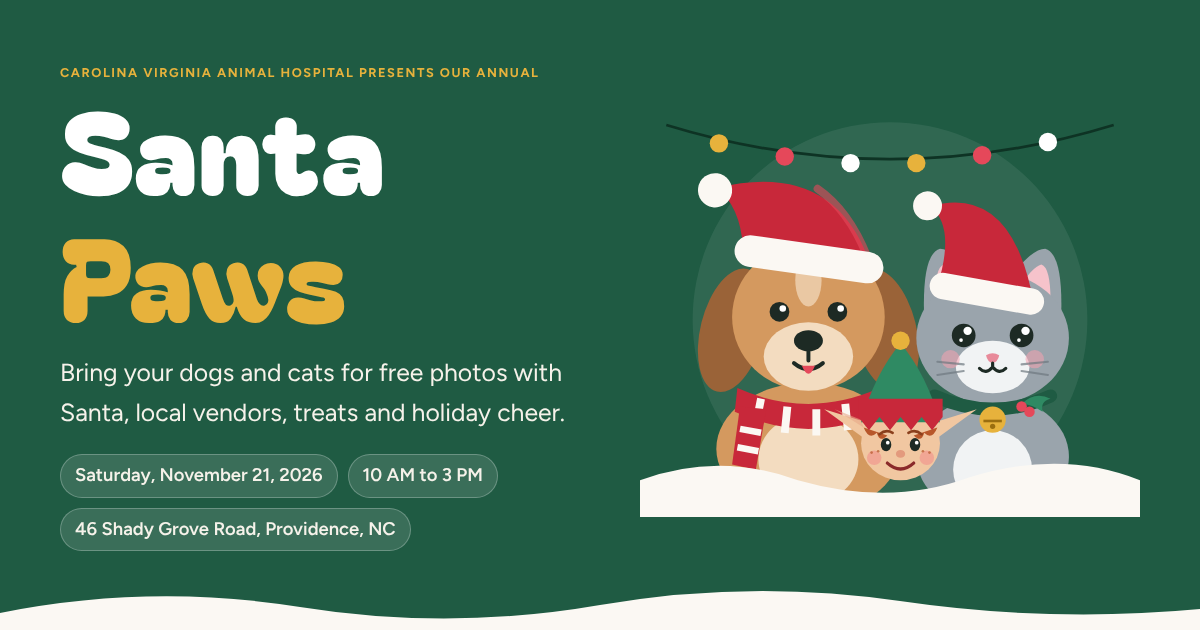
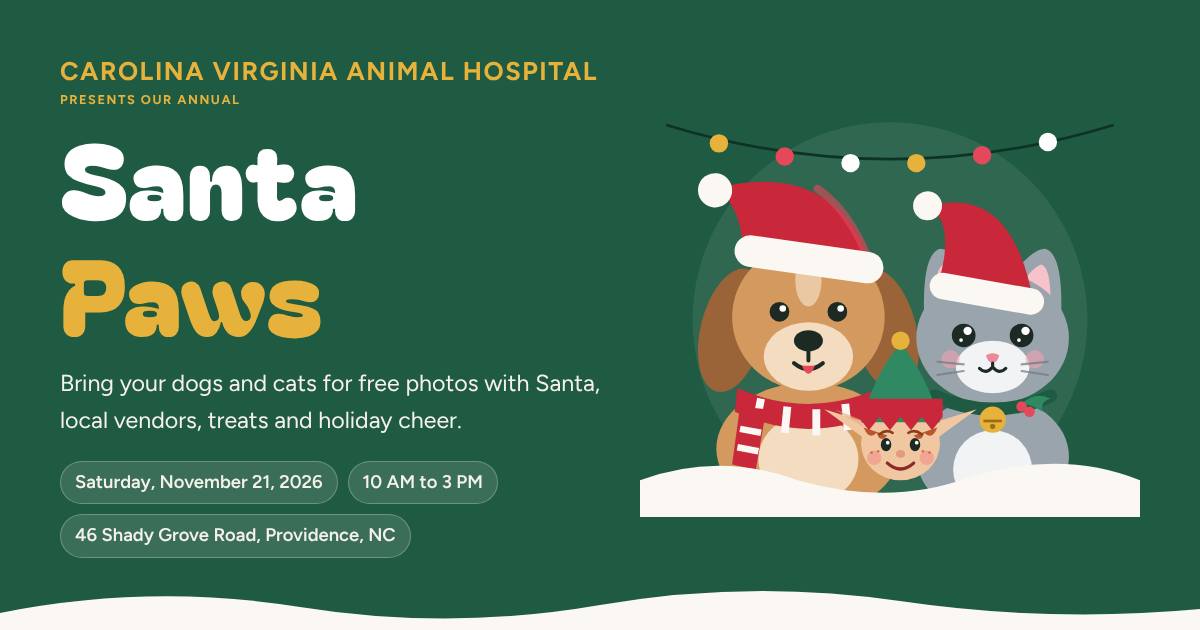
Make the hospital name larger in the home page header and preview card
Claude-Session: https://claude.ai/code/session_01JFpBQ97b8vmH3LwQqBFzYw

Changed region(s): [[0.0308, 0.573, 0.4933, 0.9048], [0.0308, 0.0905, 0.4933, 0.5429]]

diff --git a/index.html b/index.html
@@ -79,6 +79,8 @@ header.nav { position: sticky; top: env(safe-area-inset-top, 0px); z-index: 10; 
 .hero .wrap { position: relative; display: grid; grid-template-columns: 1.2fr .8fr; gap: 32px; align-items: center; padding-block: 56px 72px; }
 .hero h1 { font-size: clamp(3.2rem, 10vw, 6.4rem); color: #fff; letter-spacing: .01em; }
 .hero h1 span { color: var(--gold); }
+.hero-host { color: var(--gold); margin-bottom: 6px; }
+.hero-host strong { display: block; font-size: clamp(1.15rem, 2.6vw, 1.6rem); letter-spacing: .06em; line-height: 1.25; margin-bottom: 2px; }
 .hero .lede { font-size: 1.2rem; max-width: 34ch; margin-top: 16px; }
 .facts { display: flex; flex-wrap: wrap; gap: 10px; margin-top: 22px; }
 .fact { background: rgba(255,255,255,.12); border: 1px solid rgba(255,255,255,.25); border-radius: 999px; padding: 6px 14px; font-weight: 600; font-size: .95rem; }
@@ -292,7 +294,7 @@ footer p { opacity: .85; font-size: .95rem; }
     <canvas id="snow" aria-hidden="true"></canvas>
     <div class="wrap">
       <div>
-        <p class="eyebrow" style="color:var(--gold)">Carolina Virginia Animal Hospital presents our annual</p>
+        <p class="eyebrow hero-host"><strong>Carolina Virginia Animal Hospital</strong> presents our annual</p>
         <h1>Santa <span>Paws</span></h1>
         <p class="lede">Bring your dogs and cats for free photos with Santa, local vendors, treats and holiday cheer.</p>
         <div class="facts">

diff --git a/cancel.html b/cancel.html
@@ -79,6 +79,8 @@ header.nav { position: sticky; top: env(safe-area-inset-top, 0px); z-index: 10; 
 .hero .wrap { position: relative; display: grid; grid-template-columns: 1.2fr .8fr; gap: 32px; align-items: center; padding-block: 56px 72px; }
 .hero h1 { font-size: clamp(3.2rem, 10vw, 6.4rem); color: #fff; letter-spacing: .01em; }
 .hero h1 span { color: var(--gold); }
+.hero-host { color: var(--gold); margin-bottom: 6px; }
+.hero-host strong { display: block; font-size: clamp(1.15rem, 2.6vw, 1.6rem); letter-spacing: .06em; line-height: 1.25; margin-bottom: 2px; }
 .hero .lede { font-size: 1.2rem; max-width: 34ch; margin-top: 16px; }
 .facts { display: flex; flex-wrap: wrap; gap: 10px; margin-top: 22px; }
 .fact { background: rgba(255,255,255,.12); border: 1px solid rgba(255,255,255,.25); border-radius: 999px; padding: 6px 14px; font-weight: 600; font-size: .95rem; }

diff --git a/contact.html b/contact.html
@@ -79,6 +79,8 @@ header.nav { position: sticky; top: env(safe-area-inset-top, 0px); z-index: 10; 
 .hero .wrap { position: relative; display: grid; grid-template-columns: 1.2fr .8fr; gap: 32px; align-items: center; padding-block: 56px 72px; }
 .hero h1 { font-size: clamp(3.2rem, 10vw, 6.4rem); color: #fff; letter-spacing: .01em; }
 .hero h1 span { color: var(--gold); }
+.hero-host { color: var(--gold); margin-bottom: 6px; }
+.hero-host strong { display: block; font-size: clamp(1.15rem, 2.6vw, 1.6rem); letter-spacing: .06em; line-height: 1.25; margin-bottom: 2px; }
 .hero .lede { font-size: 1.2rem; max-width: 34ch; margin-top: 16px; }
 .facts { display: flex; flex-wrap: wrap; gap: 10px; margin-top: 22px; }
 .fact { background: rgba(255,255,255,.12); border: 1px solid rgba(255,255,255,.25); border-radius: 999px; padding: 6px 14px; font-weight: 600; font-size: .95rem; }

diff --git a/faq.html b/faq.html
@@ -79,6 +79,8 @@ header.nav { position: sticky; top: env(safe-area-inset-top, 0px); z-index: 10; 
 .hero .wrap { position: relative; display: grid; grid-template-columns: 1.2fr .8fr; gap: 32px; align-items: center; padding-block: 56px 72px; }
 .hero h1 { font-size: clamp(3.2rem, 10vw, 6.4rem); color: #fff; letter-spacing: .01em; }
 .hero h1 span { color: var(--gold); }
+.hero-host { color: var(--gold); margin-bottom: 6px; }
+.hero-host strong { display: block; font-size: clamp(1.15rem, 2.6vw, 1.6rem); letter-spacing: .06em; line-height: 1.25; margin-bottom: 2px; }
 .hero .lede { font-size: 1.2rem; max-width: 34ch; margin-top: 16px; }
 .facts { display: flex; flex-wrap: wrap; gap: 10px; margin-top: 22px; }
 .fact { background: rgba(255,255,255,.12); border: 1px solid rgba(255,255,255,.25); border-radius: 999px; padding: 6px 14px; font-weight: 600; font-size: .95rem; }

diff --git a/gallery.html b/gallery.html
@@ -79,6 +79,8 @@ header.nav { position: sticky; top: env(safe-area-inset-top, 0px); z-index: 10; 
 .hero .wrap { position: relative; display: grid; grid-template-columns: 1.2fr .8fr; gap: 32px; align-items: center; padding-block: 56px 72px; }
 .hero h1 { font-size: clamp(3.2rem, 10vw, 6.4rem); color: #fff; letter-spacing: .01em; }
 .hero h1 span { color: var(--gold); }
+.hero-host { color: var(--gold); margin-bottom: 6px; }
+.hero-host strong { display: block; font-size: clamp(1.15rem, 2.6vw, 1.6rem); letter-spacing: .06em; line-height: 1.25; margin-bottom: 2px; }
 .hero .lede { font-size: 1.2rem; max-width: 34ch; margin-top: 16px; }
 .facts { display: flex; flex-wrap: wrap; gap: 10px; margin-top: 22px; }
 .fact { background: rgba(255,255,255,.12); border: 1px solid rgba(255,255,255,.25); border-radius: 999px; padding: 6px 14px; font-weight: 600; font-size: .95rem; }

diff --git a/photos.html b/photos.html
@@ -79,6 +79,8 @@ header.nav { position: sticky; top: env(safe-area-inset-top, 0px); z-index: 10; 
 .hero .wrap { position: relative; display: grid; grid-template-columns: 1.2fr .8fr; gap: 32px; align-items: center; padding-block: 56px 72px; }
 .hero h1 { font-size: clamp(3.2rem, 10vw, 6.4rem); color: #fff; letter-spacing: .01em; }
 .hero h1 span { color: var(--gold); }
+.hero-host { color: var(--gold); margin-bottom: 6px; }
+.hero-host strong { display: block; font-size: clamp(1.15rem, 2.6vw, 1.6rem); letter-spacing: .06em; line-height: 1.25; margin-bottom: 2px; }
 .hero .lede { font-size: 1.2rem; max-width: 34ch; margin-top: 16px; }
 .facts { display: flex; flex-wrap: wrap; gap: 10px; margin-top: 22px; }
 .fact { background: rgba(255,255,255,.12); border: 1px solid rgba(255,255,255,.25); border-radius: 999px; padding: 6px 14px; font-weight: 600; font-size: .95rem; }

diff --git a/sponsors.html b/sponsors.html
@@ -79,6 +79,8 @@ header.nav { position: sticky; top: env(safe-area-inset-top, 0px); z-index: 10; 
 .hero .wrap { position: relative; display: grid; grid-template-columns: 1.2fr .8fr; gap: 32px; align-items: center; padding-block: 56px 72px; }
 .hero h1 { font-size: clamp(3.2rem, 10vw, 6.4rem); color: #fff; letter-spacing: .01em; }
 .hero h1 span { color: var(--gold); }
+.hero-host { color: var(--gold); margin-bottom: 6px; }
+.hero-host strong { display: block; font-size: clamp(1.15rem, 2.6vw, 1.6rem); letter-spacing: .06em; line-height: 1.25; margin-bottom: 2px; }
 .hero .lede { font-size: 1.2rem; max-width: 34ch; margin-top: 16px; }
 .facts { display: flex; flex-wrap: wrap; gap: 10px; margin-top: 22px; }
 .fact { background: rgba(255,255,255,.12); border: 1px solid rgba(255,255,255,.25); border-radius: 999px; padding: 6px 14px; font-weight: 600; font-size: .95rem; }

diff --git a/treats.html b/treats.html
@@ -79,6 +79,8 @@ header.nav { position: sticky; top: env(safe-area-inset-top, 0px); z-index: 10; 
 .hero .wrap { position: relative; display: grid; grid-template-columns: 1.2fr .8fr; gap: 32px; align-items: center; padding-block: 56px 72px; }
 .hero h1 { font-size: clamp(3.2rem, 10vw, 6.4rem); color: #fff; letter-spacing: .01em; }
 .hero h1 span { color: var(--gold); }
+.hero-host { color: var(--gold); margin-bottom: 6px; }
+.hero-host strong { display: block; font-size: clamp(1.15rem, 2.6vw, 1.6rem); letter-spacing: .06em; line-height: 1.25; margin-bottom: 2px; }
 .hero .lede { font-size: 1.2rem; max-width: 34ch; margin-top: 16px; }
 .facts { display: flex; flex-wrap: wrap; gap: 10px; margin-top: 22px; }
 .fact { background: rgba(255,255,255,.12); border: 1px solid rgba(255,255,255,.25); border-radius: 999px; padding: 6px 14px; font-weight: 600; font-size: .95rem; }

diff --git a/vendors.html b/vendors.html
@@ -79,6 +79,8 @@ header.nav { position: sticky; top: env(safe-area-inset-top, 0px); z-index: 10; 
 .hero .wrap { position: relative; display: grid; grid-template-columns: 1.2fr .8fr; gap: 32px; align-items: center; padding-block: 56px 72px; }
 .hero h1 { font-size: clamp(3.2rem, 10vw, 6.4rem); color: #fff; letter-spacing: .01em; }
 .hero h1 span { color: var(--gold); }
+.hero-host { color: var(--gold); margin-bottom: 6px; }
+.hero-host strong { display: block; font-size: clamp(1.15rem, 2.6vw, 1.6rem); letter-spacing: .06em; line-height: 1.25; margin-bottom: 2px; }
 .hero .lede { font-size: 1.2rem; max-width: 34ch; margin-top: 16px; }
 .facts { display: flex; flex-wrap: wrap; gap: 10px; margin-top: 22px; }
 .fact { background: rgba(255,255,255,.12); border: 1px solid rgba(255,255,255,.25); border-radius: 999px; padding: 6px 14px; font-weight: 600; font-size: .95rem; }
